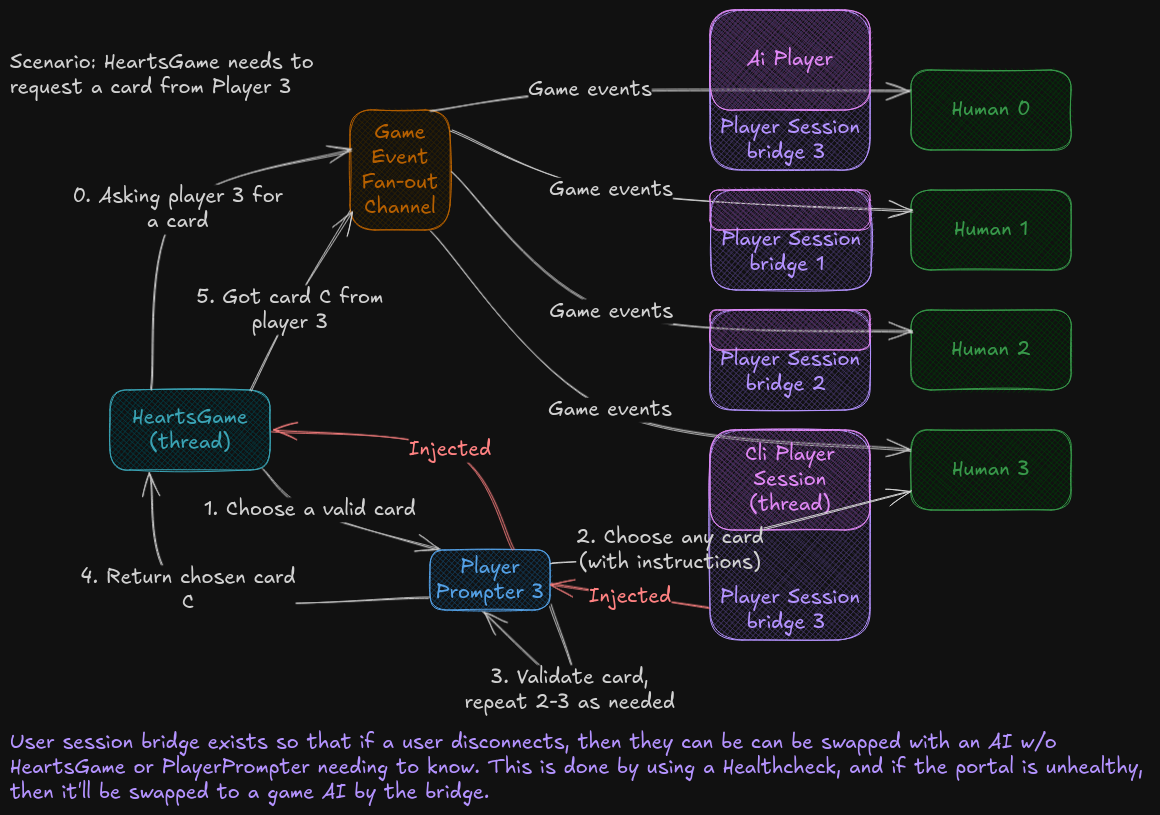
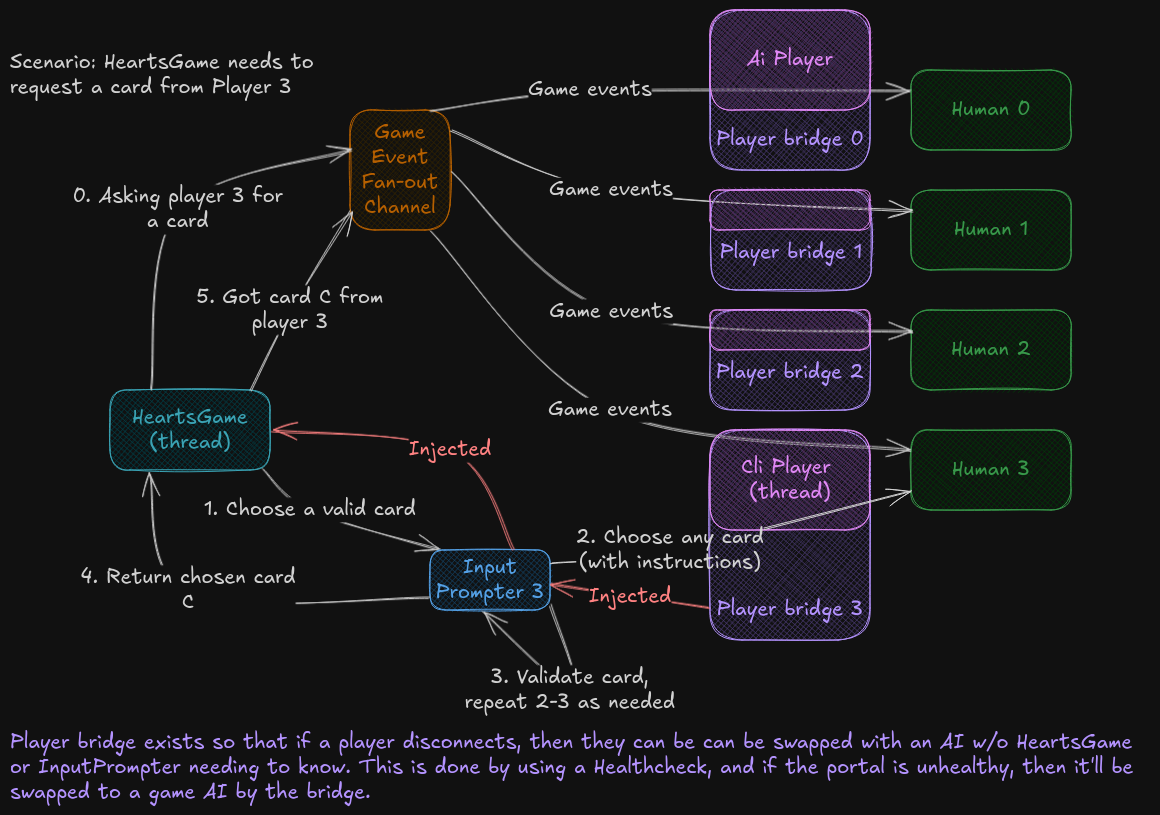
rename

diff --git a/src/Library/Core/Players/InputPrompter.cs b/src/Library/Core/Players/InputPrompter.cs
@@ -4,21 +4,21 @@ namespace CoolCardGames.Library.Core.Players;
 // TODO: update these funcs to pass additional, human-readable validation info
 /// <summary>
 /// This class is an anti-corruption layer between the card games and the
-/// <see cref="IPlayerSession{TCard}"/> so that:
+/// <see cref="IPlayer{TCard}"/> so that:
 /// <br /> - The card games' logic can be blissfully unaware of the multithreading (if implemented
 /// that way).
 /// <br /> - Reusably handle user input validation.
-/// <br /> - The user can be hot swapped (see <see cref="IPlayerSession{TCard}"/> for more).
+/// <br /> - The user can be hot swapped (see <see cref="IPlayer{TCard}"/> for more).
 /// </summary>
-public class PlayerPrompter<TCard, TPlayerState, TGameState>(
-    IPlayerSession<TCard> playerSession,
+public class InputPrompter<TCard, TPlayerState, TGameState>(
+    IPlayer<TCard> player,
     TGameState gameState,
     int gameStatePlayerIndex)
     where TCard : Card
     where TPlayerState : PlayerState<TCard>
     where TGameState : GameState<TCard, TPlayerState>
 {
-    public AccountCard AccountCard => playerSession.AccountCard;
+    public AccountCard AccountCard => player.AccountCard;
     public int GameStatePlayerIndex => gameStatePlayerIndex;
 
     private TPlayerState PlayerState => gameState.Players[gameStatePlayerIndex];
@@ -38,7 +38,7 @@ public class PlayerPrompter<TCard, TPlayerState, TGameState>(
         int iCardToPlay = -1;
         while (!validCardToPlay)
         {
-            iCardToPlay = await playerSession.PromptForIndexOfCardToPlay(Hand, cancellationToken);
+            iCardToPlay = await player.PromptForIndexOfCardToPlay(Hand, cancellationToken);
             if (iCardToPlay < 0 || iCardToPlay >= Hand.Count)
                 continue;
 
@@ -64,7 +64,7 @@ public class PlayerPrompter<TCard, TPlayerState, TGameState>(
         List<int> iCardsToPlay = [];
         while (!validCardsToPlay)
         {
-            iCardsToPlay = await playerSession.PromptForIndexesOfCardsToPlay(Hand, cancellationToken);
+            iCardsToPlay = await player.PromptForIndexesOfCardsToPlay(Hand, cancellationToken);
             if (iCardsToPlay.Count != iCardsToPlay.Distinct().Count())
                 continue;
 

diff --git a/src/Library/Games/Hearts/HeartsGameFactory.cs b/src/Library/Games/Hearts/HeartsGameFactory.cs
@@ -16,7 +16,7 @@ public class HeartsGameFactory(
 {
     public HeartsSettings DefaultHeartsSettings => settingsMonitor.CurrentValue;
 
-    public HeartsGame Make(List<IPlayerSession<HeartsCard>> users, HeartsSettings? settings = null)
+    public HeartsGame Make(List<IPlayer<HeartsCard>> users, HeartsSettings? settings = null)
     {
         if (users.Count != HeartsGame.NumPlayers)
             throw new ArgumentException($"{nameof(users)} must have {HeartsGame.NumPlayers} elements, but it has {users.Count} elements");
@@ -41,8 +41,8 @@ public class HeartsGameFactory(
             .ToList()
             .AsReadOnly();
 
-        var playerPrompters = users
-            .Select((user, i) => new HeartsPlayerPrompter(user, gameState, i))
+        var inputPrompters = users
+            .Select((user, i) => new HeartsInputPrompter(user, gameState, i))
             .ToList()
             .AsReadOnly();
 
@@ -56,9 +56,6 @@ public class HeartsGameFactory(
             user.CurrentGamesEvents = currUserCurrGameEventsChannel;
         }
 
-        // TODO: somehow, at some point, need to unset channels from
-        //       or maybe each player has a chanReader that is registered as a mailbox for channelFanOutHandler
-
-        return new HeartsGame(gameEvents.Writer, playerPrompters, gameState, dealer, settings, logger);
+        return new HeartsGame(gameEvents.Writer, inputPrompters, gameState, dealer, settings, logger);
     }
 }

diff --git a/src/Library/Core/Players/PlayerBridge.cs b/src/Library/Core/Players/PlayerBridge.cs
@@ -9,24 +9,24 @@ namespace CoolCardGames.Library.Core.Players;
 /// <summary>
 /// This class exists so that if a player disconnects, they can be seamlessly swapped to an AI.
 /// </summary>
-/// <param name="playerSession"></param>
+/// <param name="player"></param>
 /// <param name="aiFactory"></param>
 /// <typeparam name="TCard"></typeparam>
-public class PlayerSessionBridge<TCard>(IPlayerSession<TCard> playerSession, AiPlayerFactory aiFactory)
-    : IPlayerSession<TCard>
+public class PlayerBridge<TCard>(IPlayer<TCard> player, AiPlayerFactory aiFactory)
+    : IPlayer<TCard>
     where TCard : Card
 {
-    public AccountCard AccountCard => playerSession.AccountCard;
+    public AccountCard AccountCard => player.AccountCard;
 
     public ChannelReader<GameEvent>? CurrentGamesEvents { get; set; }
 
     public Task<int> PromptForIndexOfCardToPlay(Cards<TCard> cards, CancellationToken cancellationToken)
     {
-        return playerSession.PromptForIndexOfCardToPlay(cards, cancellationToken);
+        return player.PromptForIndexOfCardToPlay(cards, cancellationToken);
     }
 
     public Task<List<int>> PromptForIndexesOfCardsToPlay(Cards<TCard> cards, CancellationToken cancellationToken)
     {
-        return playerSession.PromptForIndexesOfCardsToPlay(cards, cancellationToken);
+        return player.PromptForIndexesOfCardsToPlay(cards, cancellationToken);
     }
 }

diff --git a/src/Library/Core/Players/IPlayer.cs b/src/Library/Core/Players/IPlayer.cs
@@ -5,21 +5,15 @@ namespace CoolCardGames.Library.Core.Players;
 // TODO: update these methods to take whole game state?
 // TODO: update these funcs to pass additional, human-readable validation info
 
-/// <remarks>
-/// <see cref="IPlayerSession{TCard}"/> and <see cref="PlayerPrompter{TCard,TPlayerState,TGameState}"/> being
-/// two different types supports the following use case: if playing online, if someone goes offline,
-/// the <see cref="PlayerPrompter{TCard,TPlayerState,TGameState}"/>'s session can be hot swapped to an AI
-/// implementation without a game's logic needing to be aware of the change.
-/// </remarks>
-/// <typeparam name="TCard"></typeparam>
-public interface IPlayerSession<TCard>
+public interface IPlayer<TCard>
     where TCard : Card
 {
     AccountCard AccountCard { get; }
 
     /// <remarks>
-    /// This is nullable because if the player is not currently involved in a game, then they won't
-    /// be receiving game events.
+    /// This is nullable because if the player has not yet been in a game, then this will not have
+    /// been initialized. Do note that once a game completes, this property may contain a non-null,
+    /// but completed, channel reader.
     /// </remarks>
     ChannelReader<GameEvent>? CurrentGamesEvents { get; set; }
 

diff --git a/src/Library/Games/Hearts/HeartsGame.cs b/src/Library/Games/Hearts/HeartsGame.cs
@@ -26,7 +26,7 @@ namespace CoolCardGames.Library.Games.Hearts;
 /// </remarks>
 public class HeartsGame(
     ChannelWriter<GameEvent> gameEventWriter,
-    IReadOnlyList<HeartsPlayerPrompter> playerPrompters,
+    IReadOnlyList<HeartsInputPrompter> playerPrompters,
     HeartsGameState gameState,
     IDealer dealer,
     HeartsSettings settings,
@@ -43,7 +43,7 @@ public class HeartsGame(
             "Hearts game with ID {GameId} and settings {Settings}",
             Guid.NewGuid(), settings);
         logger.LogInformation("Beginning a hearts game");
-        foreach (HeartsPlayerPrompter player in playerPrompters)
+        foreach (HeartsInputPrompter player in playerPrompters)
         {
             logger.LogInformation("Player at index {PlayerIndex} is {PlayerCard}",
                 player.GameStatePlayerIndex, player.AccountCard);

diff --git a/src/Library/Core/Players/AiPlayerFactory.cs b/src/Library/Core/Players/AiPlayerFactory.cs
@@ -2,9 +2,9 @@ namespace CoolCardGames.Library.Core.Players;
 
 public class AiPlayerFactory
 {
-    public AiPlayerSession<TCard> Make<TCard>(AccountCard accountCard)
+    public AiPlayer<TCard> Make<TCard>(AccountCard accountCard)
         where TCard : Card
     {
-        return new AiPlayerSession<TCard>(accountCard);
+        return new AiPlayer<TCard>(accountCard);
     }
 }

diff --git a/src/Cli/CliPlayer.cs b/src/Cli/CliPlayer.cs
@@ -7,7 +7,7 @@ using CoolCardGames.Library.Core.Players;
 namespace CoolCardGames.Cli;
 
 // TODO: have a configurable delay b/w messages
-public class CliPlayerSession<TCard>(AccountCard accountCard) : IPlayerSession<TCard>
+public class CliPlayer<TCard>(AccountCard accountCard) : IPlayer<TCard>
     where TCard : Card
 {
     public AccountCard AccountCard => accountCard;

diff --git a/src/Library/Games/Hearts/HeartsInputPrompter.cs b/src/Library/Games/Hearts/HeartsInputPrompter.cs
@@ -1,0 +1,9 @@
+using CoolCardGames.Library.Core.Players;
+
+namespace CoolCardGames.Library.Games.Hearts;
+
+public class HeartsInputPrompter(
+    IPlayer<HeartsCard> player,
+    HeartsGameState gameState,
+    int gameStatePlayerIndex)
+    : InputPrompter<HeartsCard, HeartsPlayerState, HeartsGameState>(player, gameState, gameStatePlayerIndex);

diff --git a/src/Library/Core/Players/AiPlayer.cs b/src/Library/Core/Players/AiPlayer.cs
@@ -2,7 +2,7 @@ using System.Threading.Channels;
 
 namespace CoolCardGames.Library.Core.Players;
 
-public class AiPlayerSession<TCard>(AccountCard accountCard) : IPlayerSession<TCard>
+public class AiPlayer<TCard>(AccountCard accountCard) : IPlayer<TCard>
     where TCard : Card
 {
     public AccountCard AccountCard => accountCard;
